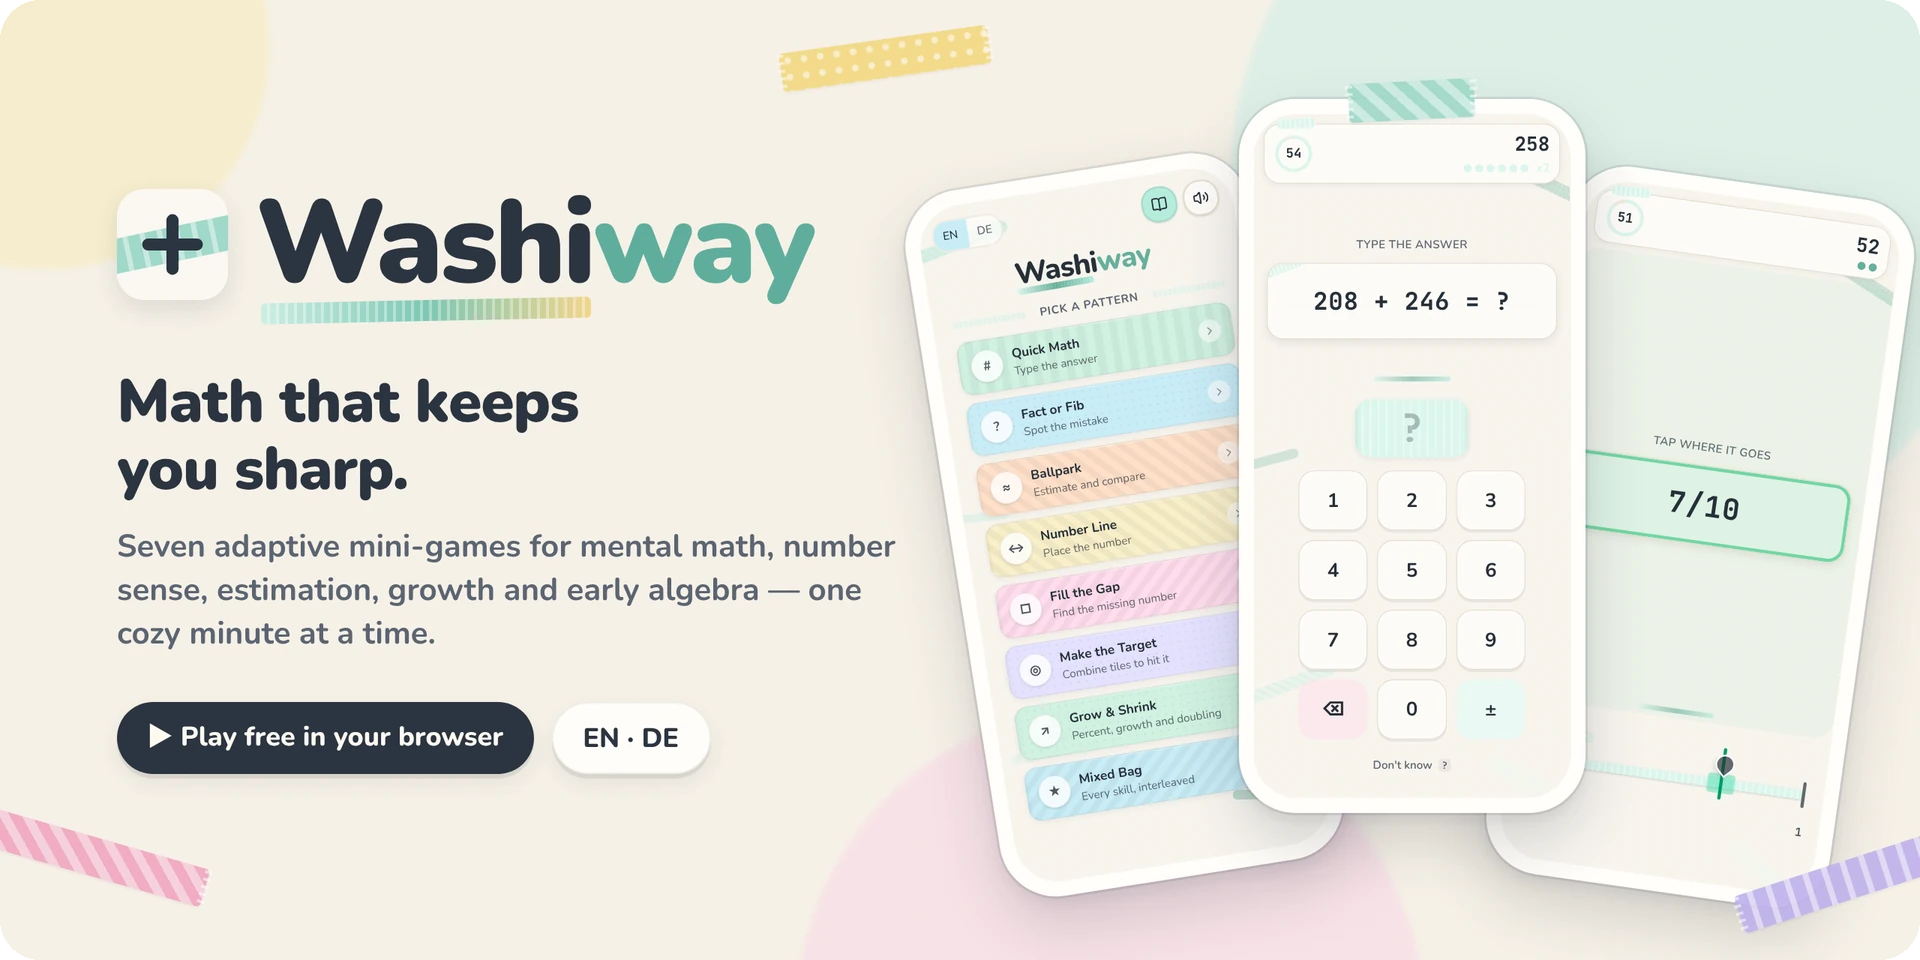
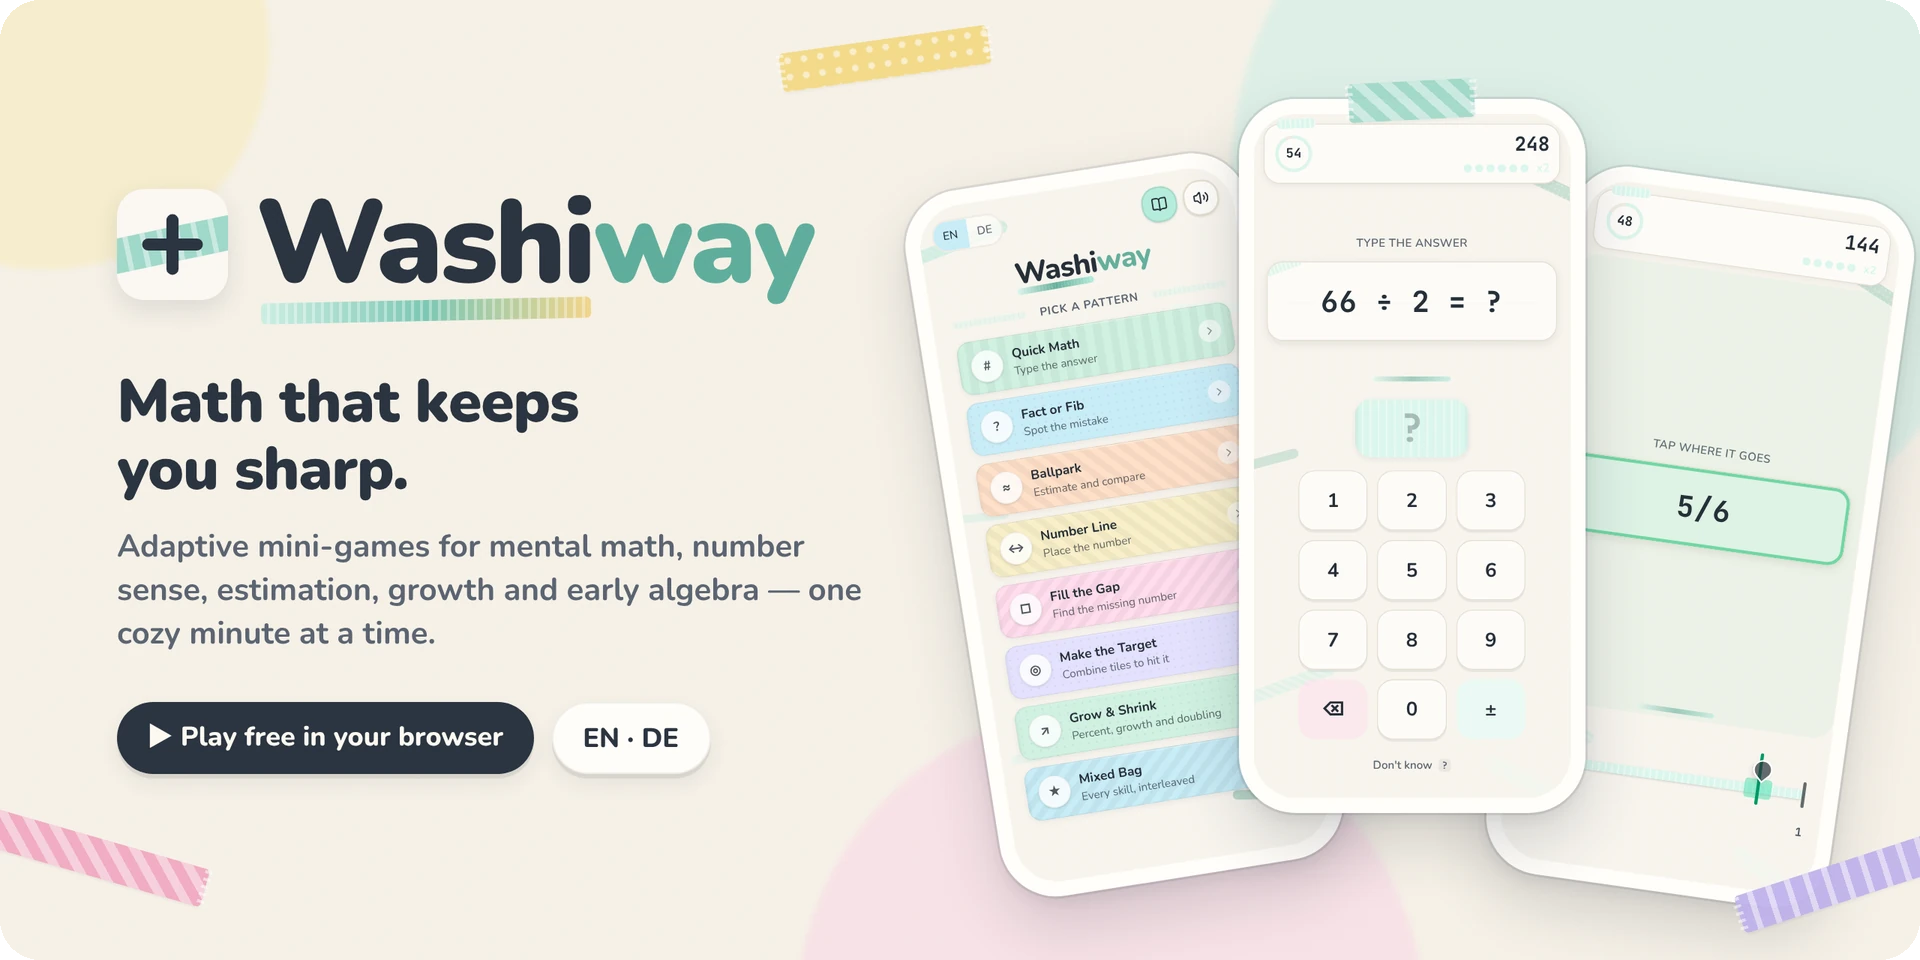
docs: drop the counting from README copy and images
Says what the games are instead of how many there are, in the
tagline, the modes heading, the banner and the menu card.

Claude-Session: https://claude.ai/code/session_01M1BRW6d2aDYjqD5uShmN4m

diff --git a/README.md b/README.md
@@ -11,7 +11,7 @@
   <img alt="MIT license" src="https://img.shields.io/badge/license-MIT-f1a7c1?style=for-the-badge">
 </p>
 
-<h3 align="center">Seven adaptive mini-games that keep your math sharp — one cozy minute at a time.</h3>
+<h3 align="center">Adaptive mini-games that keep your math sharp — one cozy minute at a time.</h3>
 
 <p align="center">
   Mental math, number sense, estimation, growth and early algebra for teens and adults.<br>
@@ -25,7 +25,7 @@
 ## Screenshots
 
 <p align="center">
-  <img src="docs/readme/screens/1-menu.webp" alt="Seven ways to keep your math sharp" width="32%">
+  <img src="docs/readme/screens/1-menu.webp" alt="The menu: pick what to practice" width="32%">
   <img src="docs/readme/screens/2-sprint.webp" alt="60-second sprints with streaks and bursts" width="32%">
   <img src="docs/readme/screens/3-learn.webp" alt="After a miss, the solution and the trick behind it" width="32%">
 </p>
@@ -40,7 +40,7 @@
   <img src="docs/readme/screens/9-binder.webp" alt="The washi binder with unlocked tape rolls" width="32%">
 </p>
 
-## Seven skills, one cozy routine
+## Pick what to practice
 
 |       | Mode                | You practice                                                                              | For example                    |
 | :---: | ------------------- | ----------------------------------------------------------------------------------------- | ------------------------------ |
@@ -53,7 +53,7 @@
 | **↗** | **Grow & Shrink**   | Repeated change: percent as a factor, recovering from a drop, doubling times              | `100 → −20% → ?` needs `+25%`  |
 | **★** | **Mixed Bag**       | Everything above, interleaved                                                             | —                              |
 
-Every skill has **10 levels** that adapt after each answer, so a round is never boring and never hopeless.
+Every skill keeps its own level, which adapts after each answer, so a round is never boring and never hopeless.
 
 ## Why it works
 
@@ -87,7 +87,7 @@ The generators live in `lib/math/`. Tests recompute every generated task with an
 
 ## Features
 
-- 🎯 **Adaptive levels 1–10** per skill, saved between sessions
+- 🎯 **Adaptive levels** per skill, saved between sessions
 - ⏱ **60-second sprints** with streaks, multipliers and burst bonuses — or **20 tasks without a clock**
 - 💡 **Worked solutions** after every miss, and a **review deck** of tasks to revisit
 - 🎀 **Washi binder** — unlock themed tape rolls through achievements and re-theme the whole app
